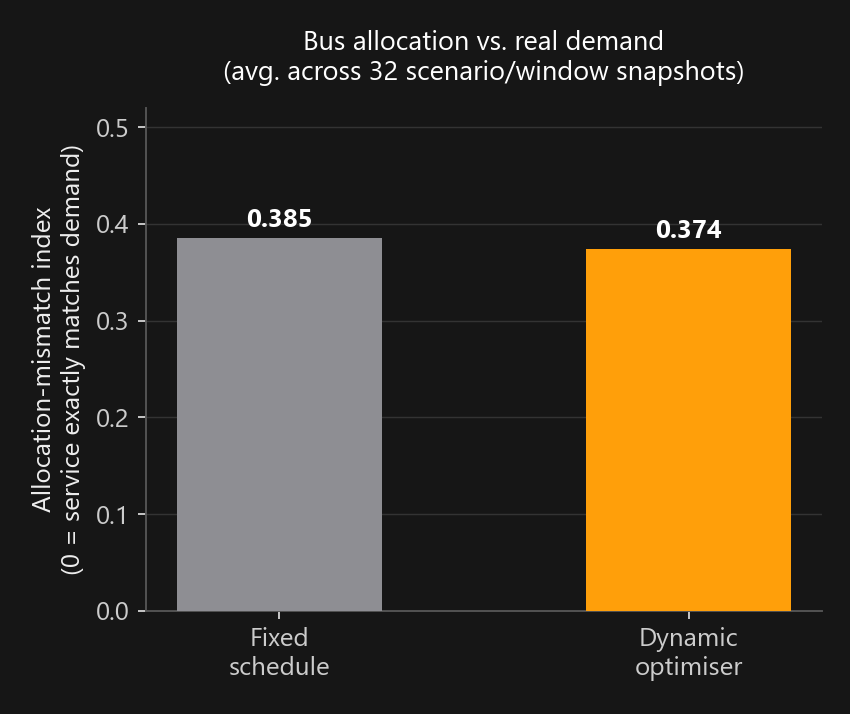
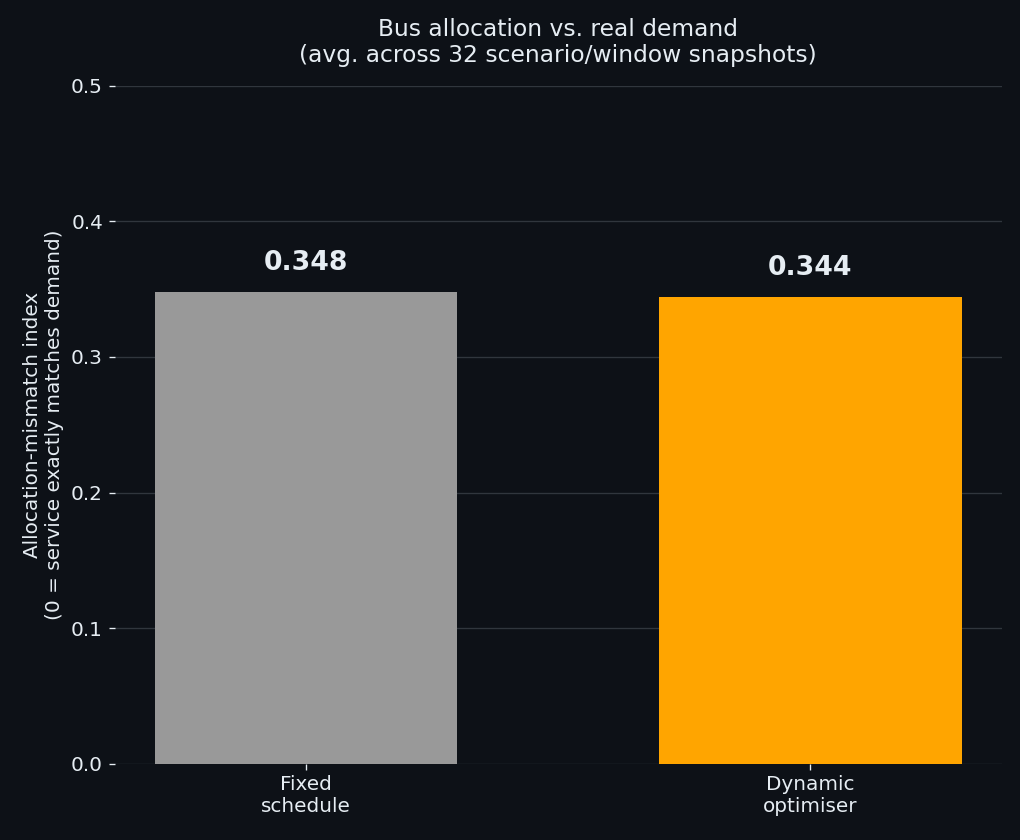
Regenerate equity outputs from retrained model and add chart generator
analysis/equity.py was re-run against the route_plan.json produced by
the post-LSOA-fix retrain (Fix #4), giving updated allocation-mismatch
values: fixed schedule 0.385 -> 0.348, dynamic optimiser 0.374 -> 0.344
(still averaged across all 32 scenario/window snapshots).

chart_equity.png had no generator script in the repo (it was committed
as a static image in e66c53f). Added
analysis/generate_equity_chart.py, which reads
analysis/outputs/equity.json and reproduces the chart in its original
dark-theme/gray-vs-orange style with the new values, so it can be
regenerated automatically after future retrains.

diff --git a/analysis/generate_equity_chart.py b/analysis/generate_equity_chart.py
@@ -1,0 +1,68 @@
+"""Generates docs/figures/chart_equity.png -- the allocation-mismatch bar
+chart comparing the fixed schedule to the dynamic optimiser, using the
+summary stats in analysis/outputs/equity.json (produced by analysis/equity.py).
+
+Usage
+-----
+  python analysis/generate_equity_chart.py
+"""
+
+from __future__ import annotations
+
+import json
+from pathlib import Path
+
+import matplotlib.pyplot as plt
+
+_REPO = Path(__file__).parent.parent
+EQUITY_JSON = _REPO / "analysis" / "outputs" / "equity.json"
+OUT = _REPO / "docs" / "figures" / "chart_equity.png"
+
+BG = "#0d1117"
+TEXT = "#e6edf3"
+GRID = "#30363d"
+GRAY = "#999999"
+ORANGE = "#FFA500"
+
+
+def run() -> None:
+    summary = json.loads(EQUITY_JSON.read_text(encoding="utf-8"))["summary"]
+    fixed = summary["allocation_mismatch_fixed"]
+    dynamic = summary["allocation_mismatch_dynamic"]
+    n_snapshots = summary["mismatch_snapshots_compared"]
+
+    fig, ax = plt.subplots(figsize=(8.5, 7))
+    fig.patch.set_facecolor(BG)
+    ax.set_facecolor(BG)
+
+    bars = ax.bar(
+        ["Fixed\nschedule", "Dynamic\noptimiser"],
+        [fixed, dynamic],
+        color=[GRAY, ORANGE],
+        width=0.6,
+    )
+
+    for bar, value in zip(bars, [fixed, dynamic]):
+        ax.text(bar.get_x() + bar.get_width() / 2, bar.get_height() + 0.012,
+                f"{value:.3f}", ha="center", va="bottom",
+                color=TEXT, fontsize=16, fontweight="bold")
+
+    ax.set_ylim(0, 0.5)
+    ax.set_ylabel("Allocation-mismatch index\n(0 = service exactly matches demand)",
+                   color=TEXT, fontsize=12)
+    ax.set_title(f"Bus allocation vs. real demand\n"
+                  f"(avg. across {n_snapshots} scenario/window snapshots)",
+                  color=TEXT, fontsize=14, pad=14)
+
+    ax.tick_params(colors=TEXT, labelsize=12)
+    ax.spines[:].set_visible(False)
+    ax.yaxis.grid(True, color=GRID, linewidth=0.8)
+    ax.set_axisbelow(True)
+
+    fig.tight_layout()
+    fig.savefig(OUT, dpi=120, facecolor=BG)
+    print(f"Wrote {OUT}")
+
+
+if __name__ == "__main__":
+    run()